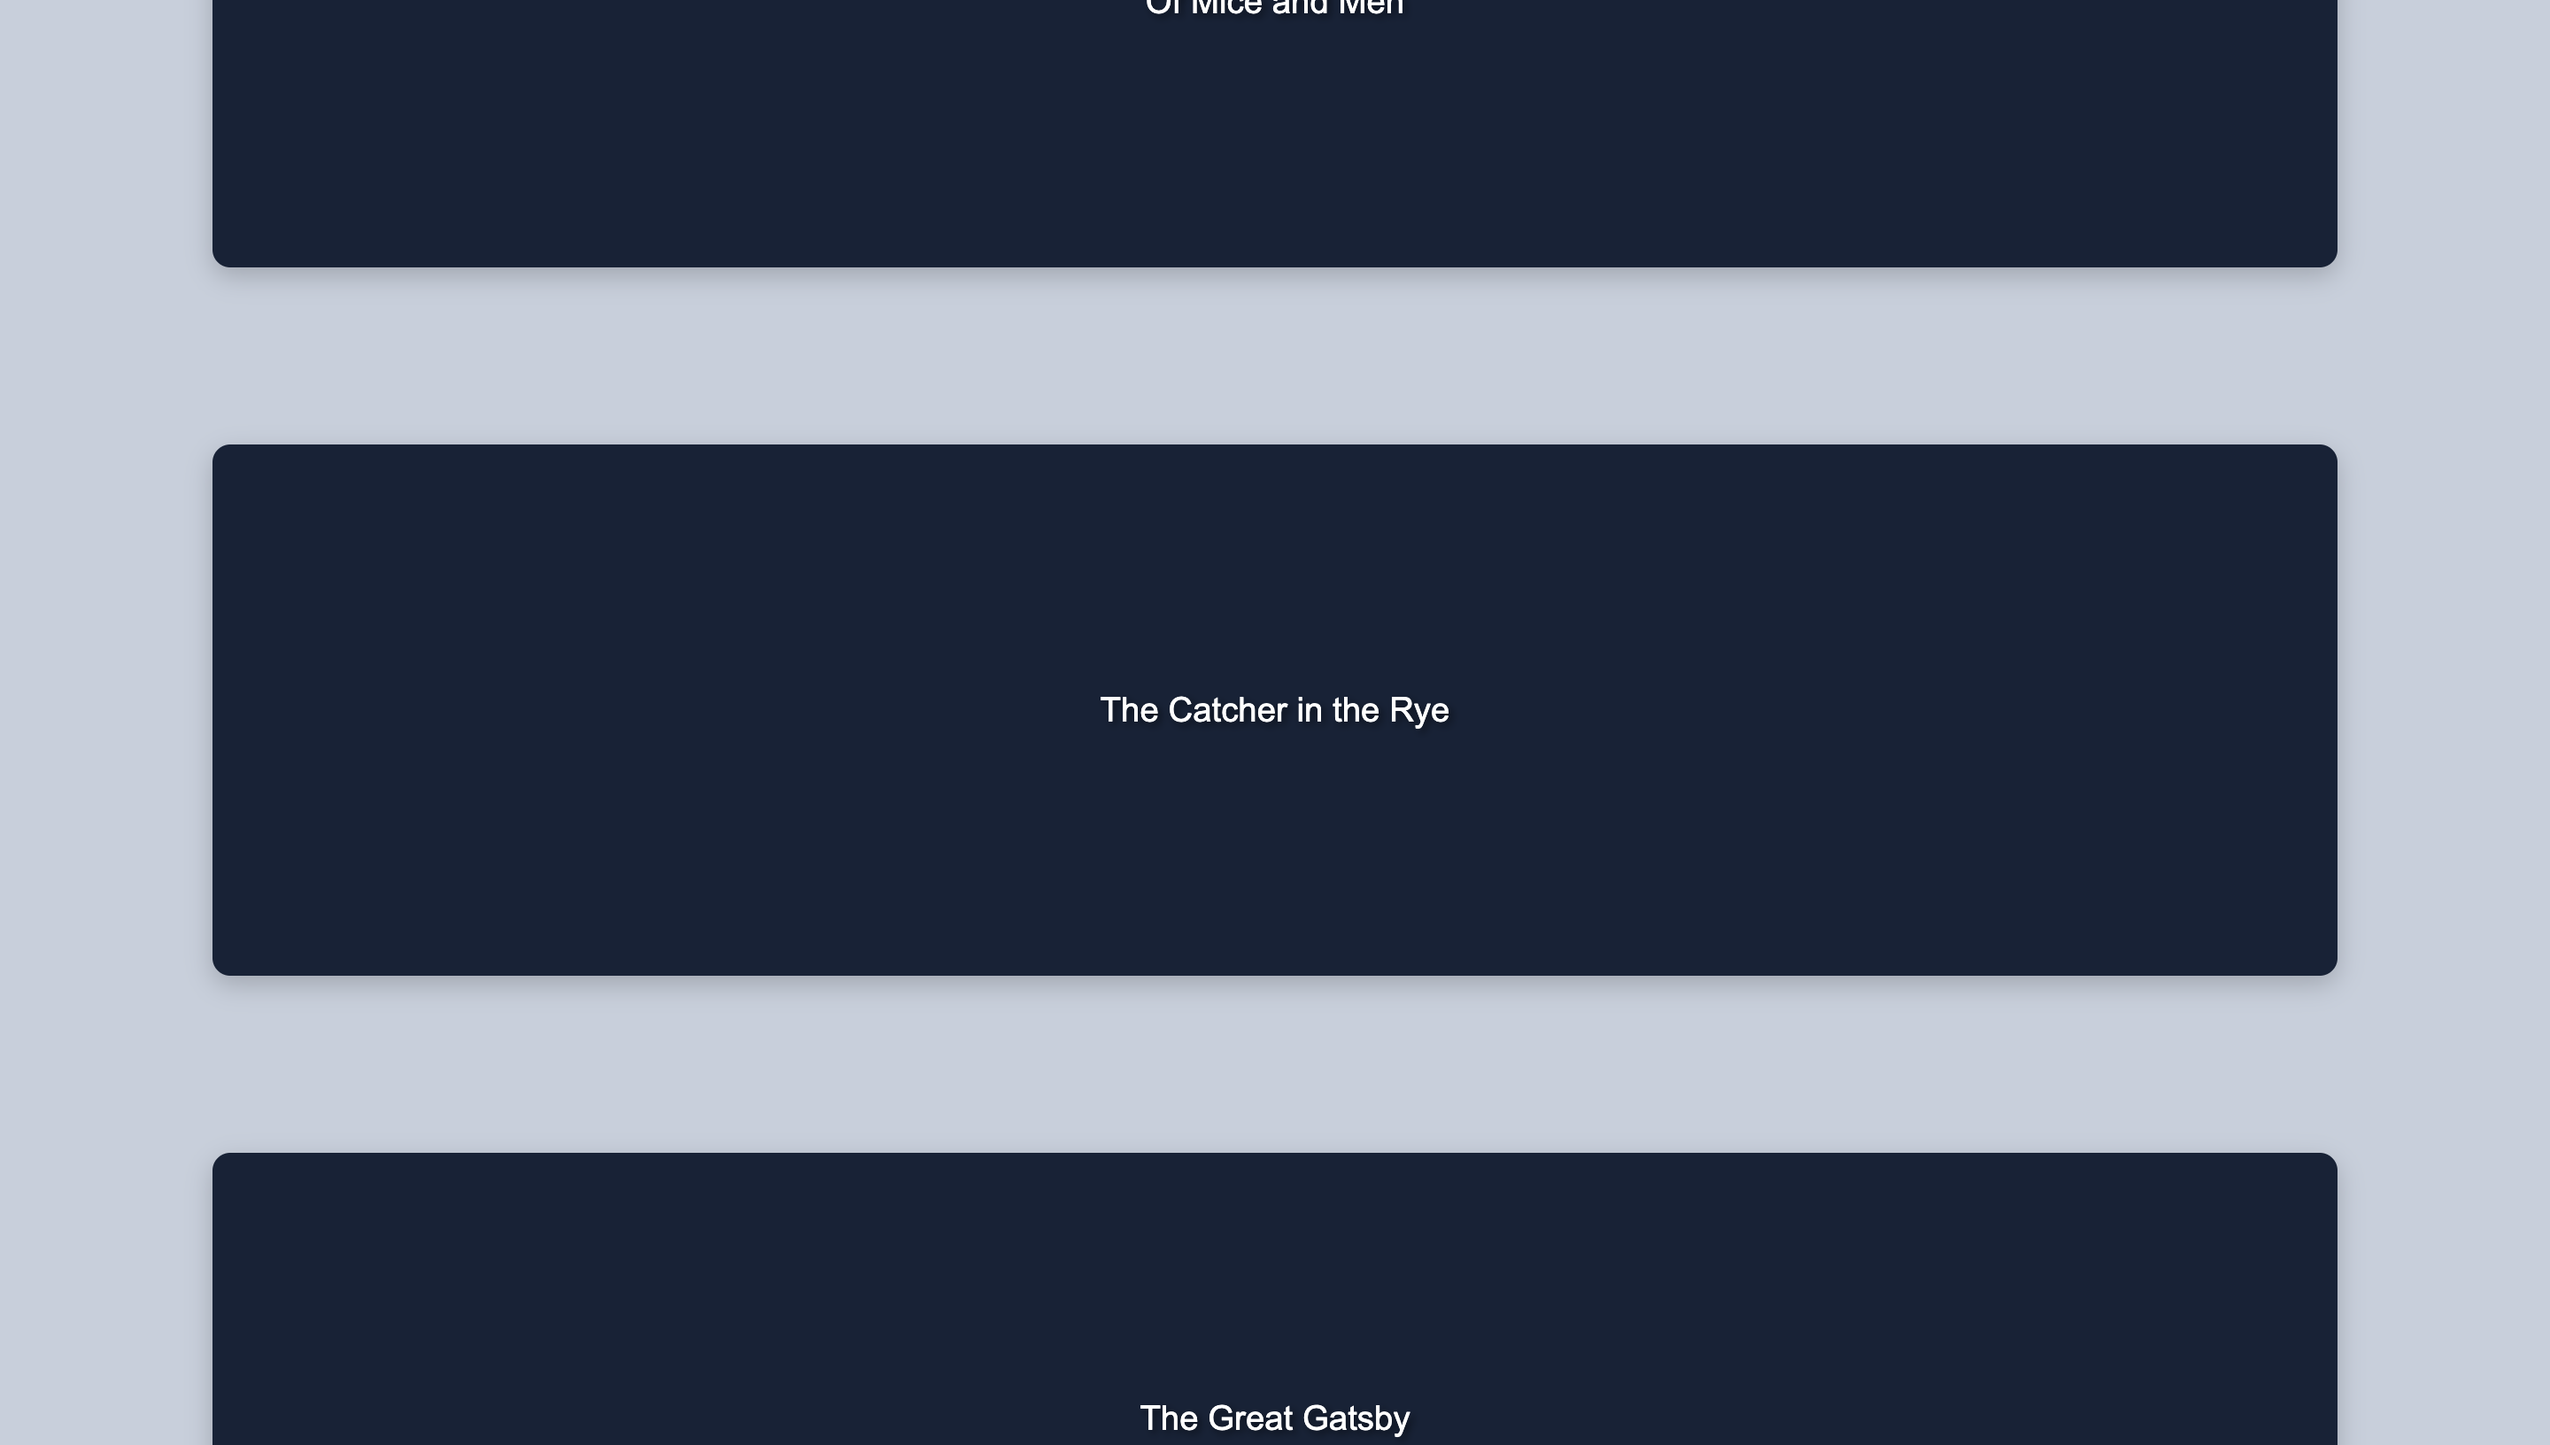
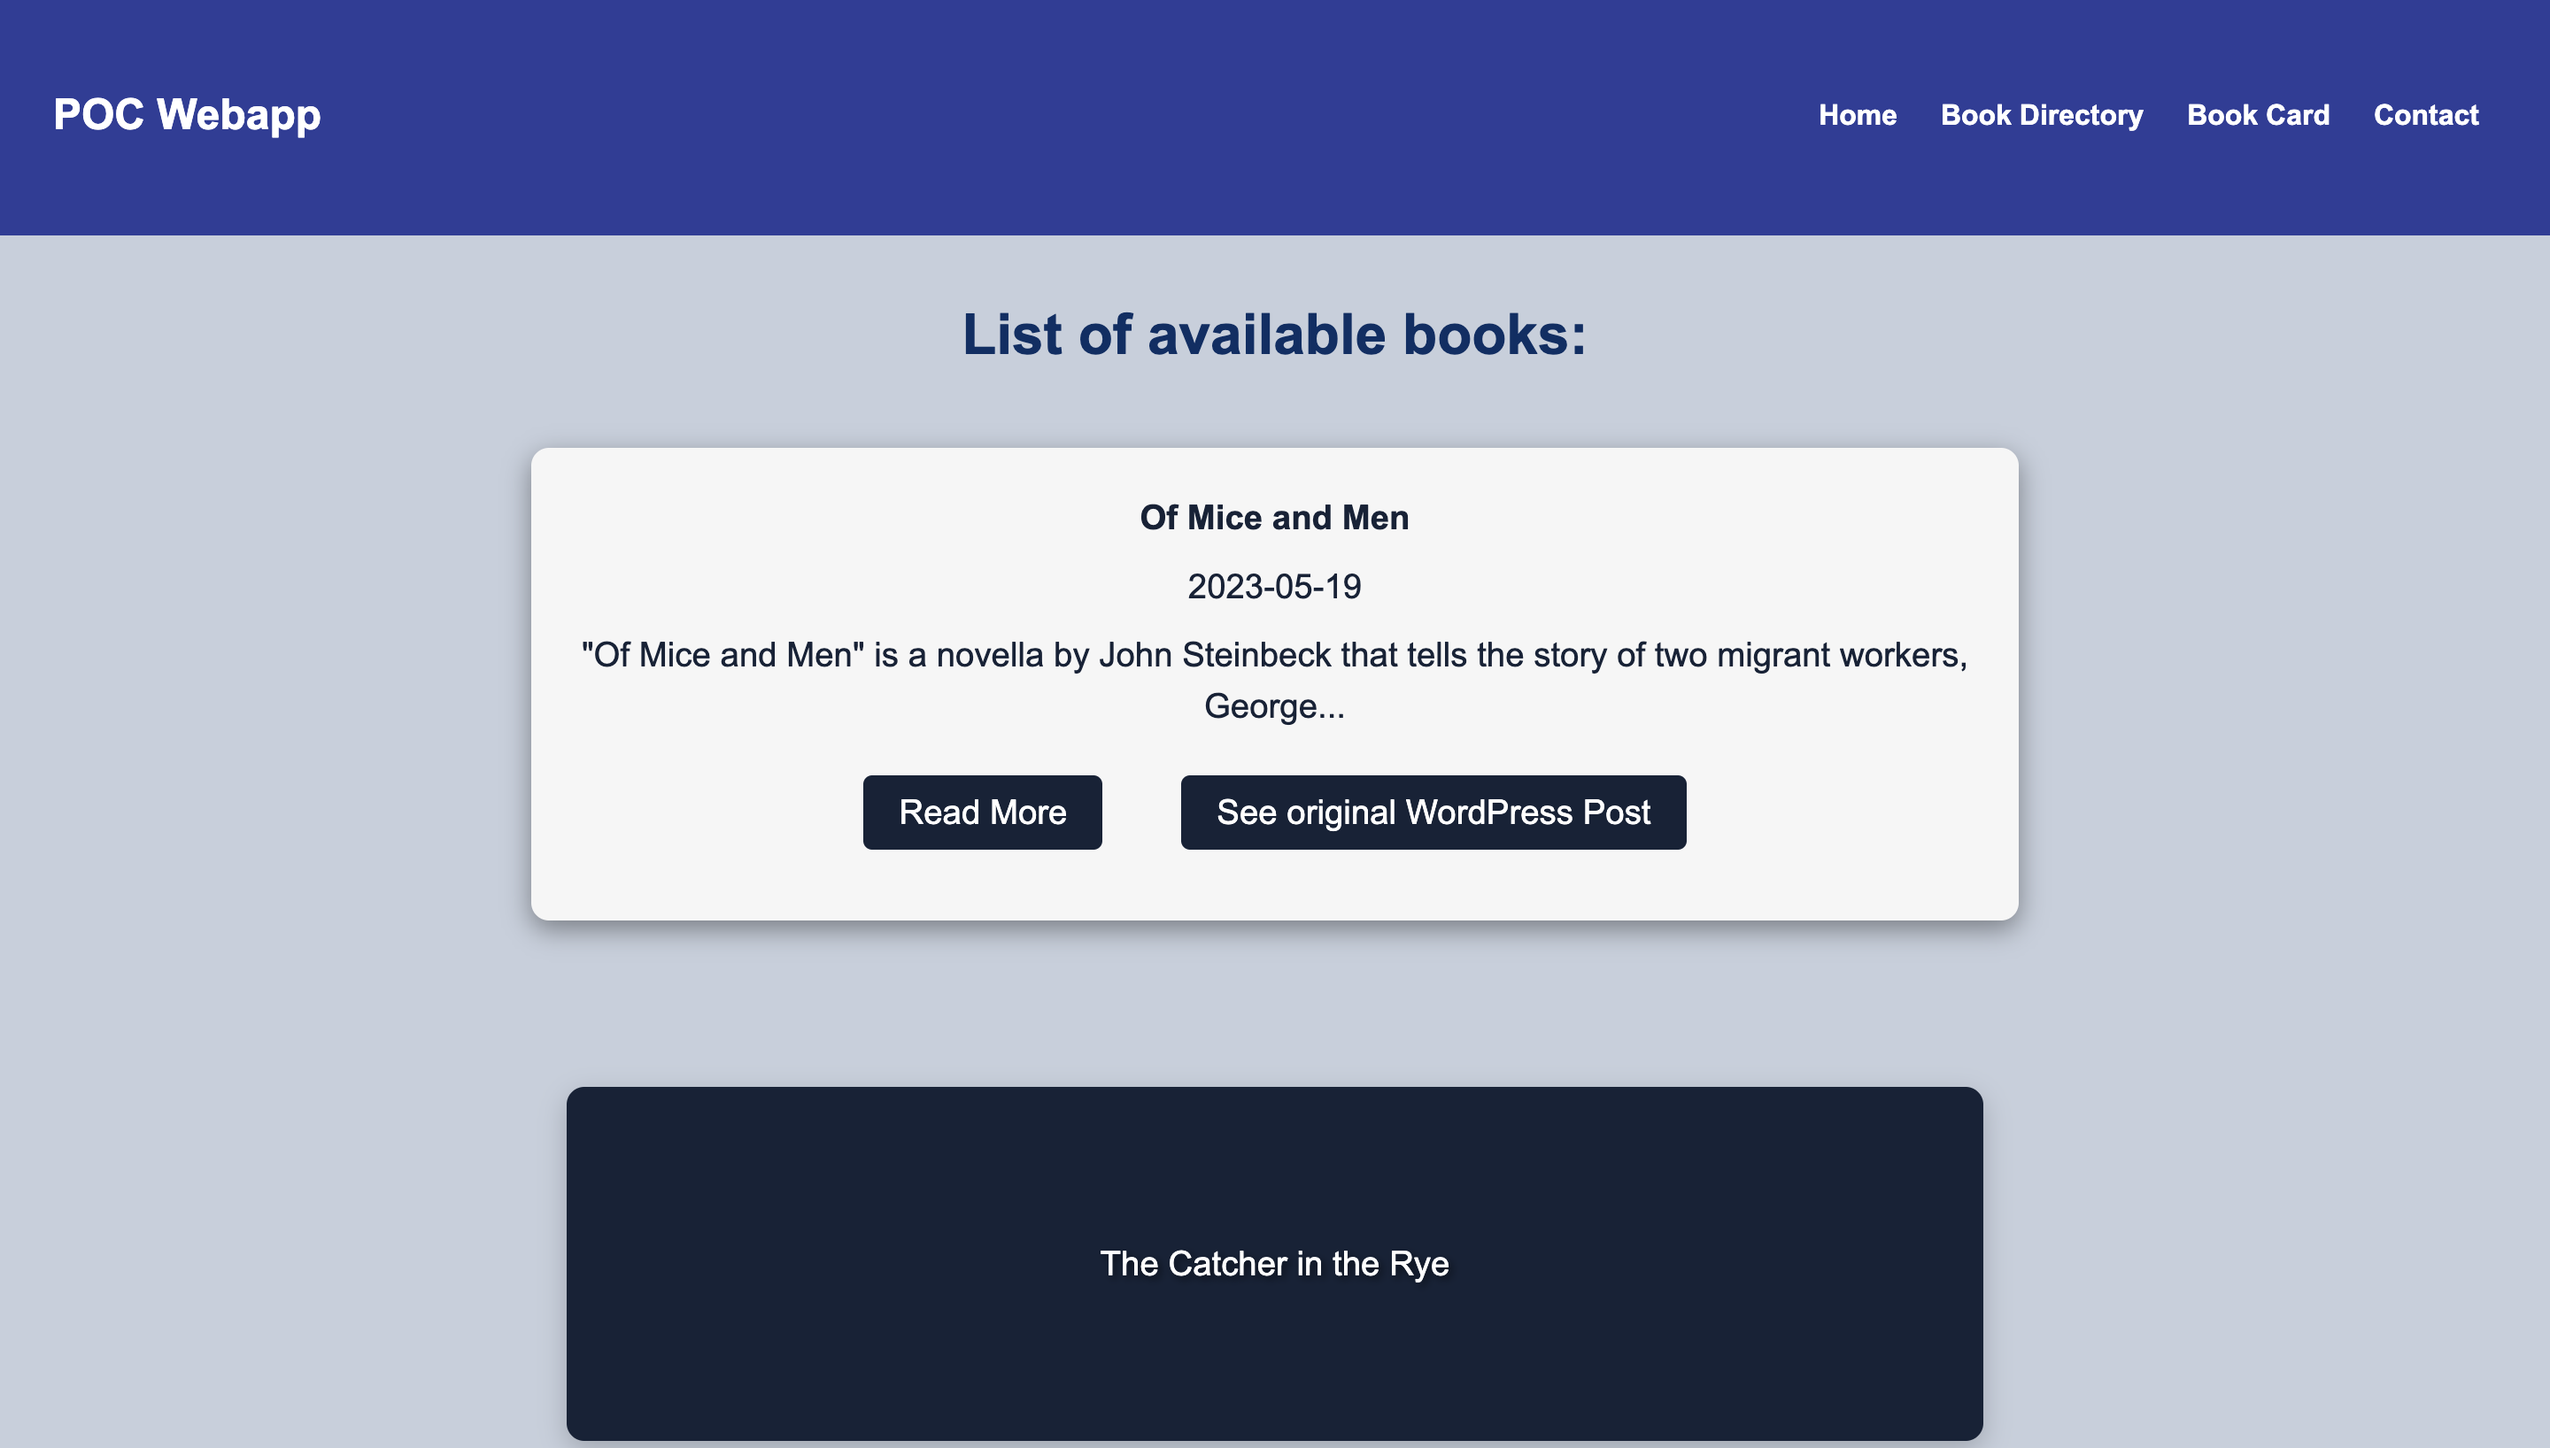
Updated directory layout and README

diff --git a/src/book-directory/book-directory.tpl.html b/src/book-directory/book-directory.tpl.html
@@ -7,7 +7,7 @@
           <div class="book-card">
             <p class="book-card-title"><b>{{post['post_title']}}</b></p>
             <p class="date">{{post['post_date']}}</p>
-            <p class="content-text">{{post['post_content']}}</p>
+            <p class="content-text">{{post['post_content_preview']}}</p>
             <a href="#!/book-card/{{post['ID']}}">
               <button>Read More</button>
             </a>

diff --git a/src/book-directory/book-directory.css b/src/book-directory/book-directory.css
@@ -16,8 +16,8 @@ a {
 }
 
 .book-container .title-container {
-  height: 300px;
-  width: 1200px;
+  height: 200px;
+  width: 800px;
   z-index: 1;
   background-color: #152238;
   color: #fff;
@@ -50,8 +50,8 @@ a {
 }
 
 .book-card {
-  height: 300px;
-  width: 1200px;
+  height: 150;
+  width: 800px;
   z-index: 2;
   background-color: #f6f6f6;
   border-radius: 10px;

diff --git a/src/book-directory/book-directory.js b/src/book-directory/book-directory.js
@@ -65,6 +65,7 @@ function format_data(list_of_posts) {
     list_of_posts[i]["post_content"] = content
       .replace("<span>", "")
       .replace("</span>", "");
+    list_of_posts[i]["post_content_preview"] = list_of_posts[i]["post_content"].substring(0, 100) + "...";
 
     // Format data
     let date = list_of_posts[i]["post_date"];

diff --git a/README.md b/README.md
@@ -36,8 +36,8 @@ In this app we are using andular 1.8.2 to build a custom web page that using dif
 
 ### Book Directory - /#!/book-dir
 
-![book-dir2](https://github.com/danetsao/poc-webapp/blob/main/images/poc-webapp-dir2.jpg)
 ![book-dir1](https://github.com/danetsao/poc-webapp/blob/main/images/poc-webapp-dir1.jpg)
+![book-dir2](https://github.com/danetsao/poc-webapp/blob/main/images/poc-webapp-dir2.jpg)
 ![book-dir-no-books](https://github.com/danetsao/poc-webapp/blob/main/images/poc-webapp-no-books.jpg)
 
 ### Book Card - /#!/book-card/:post_id
